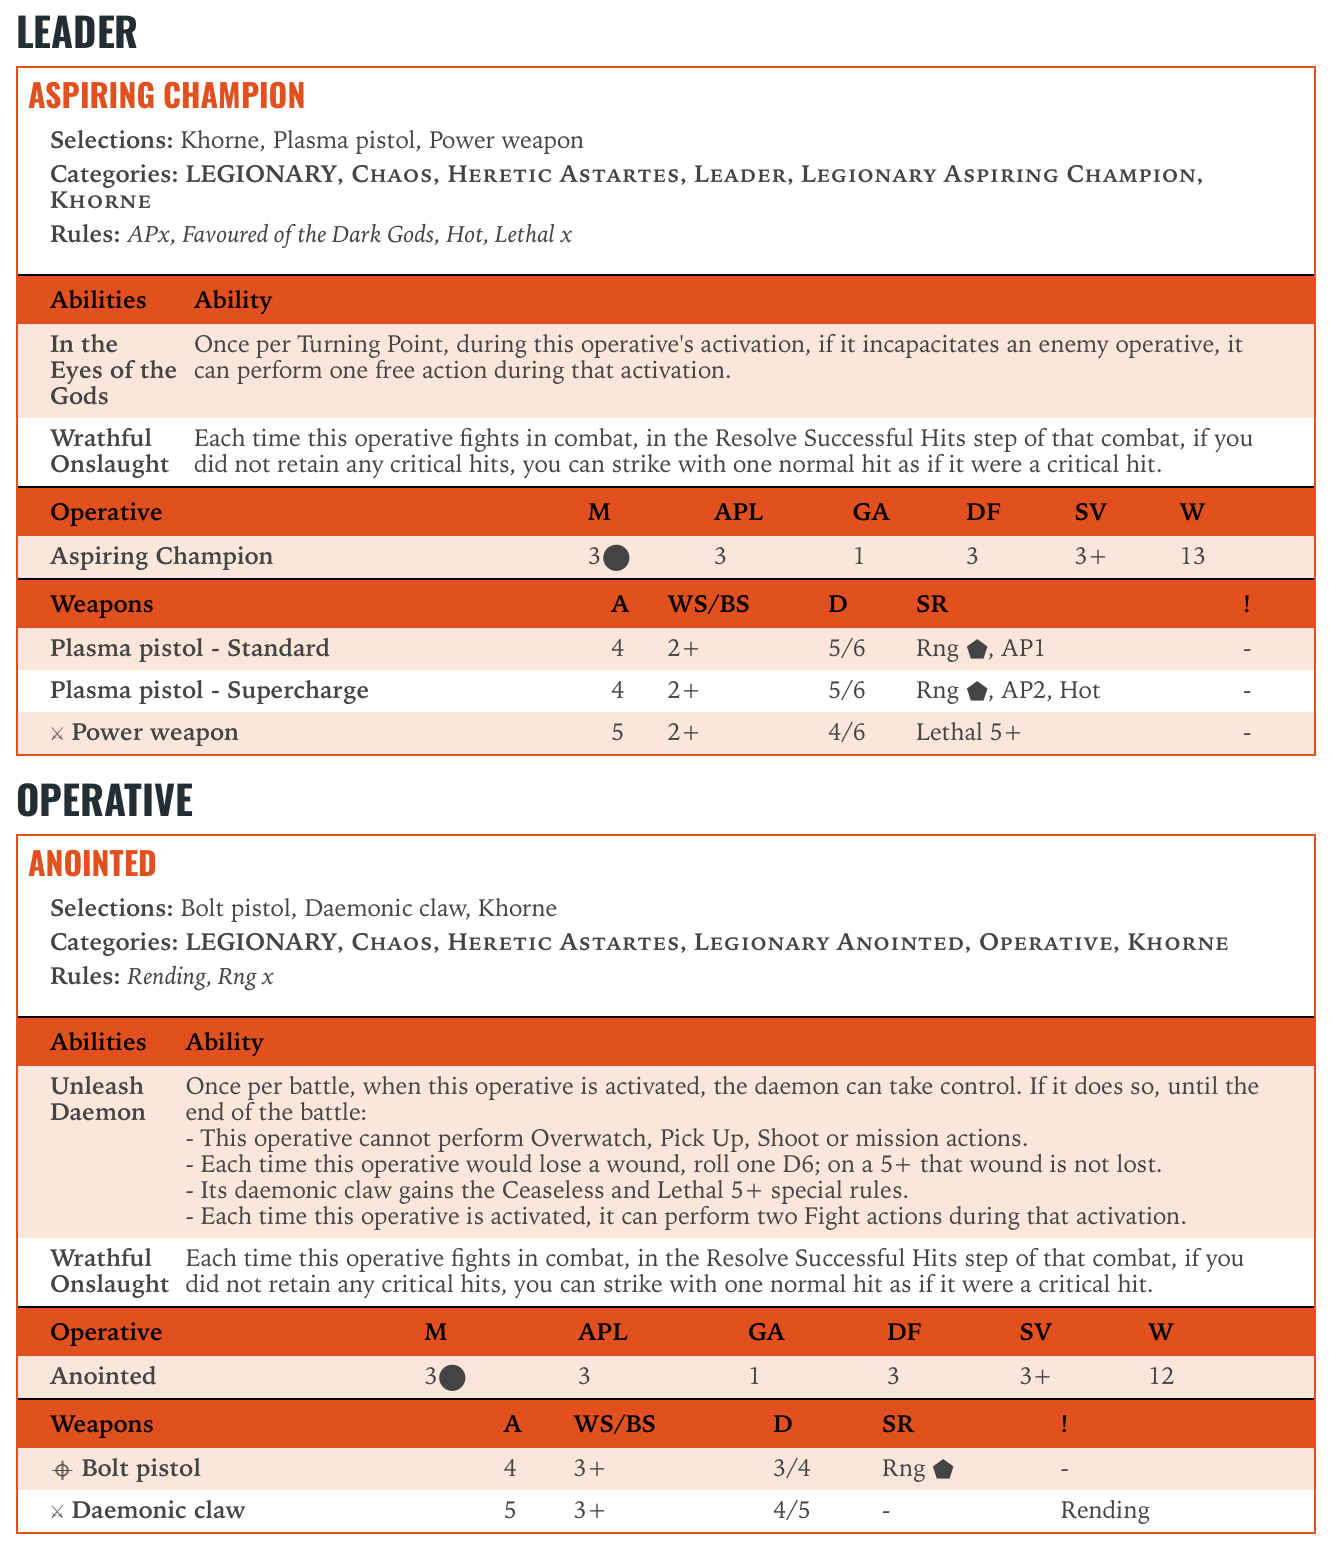
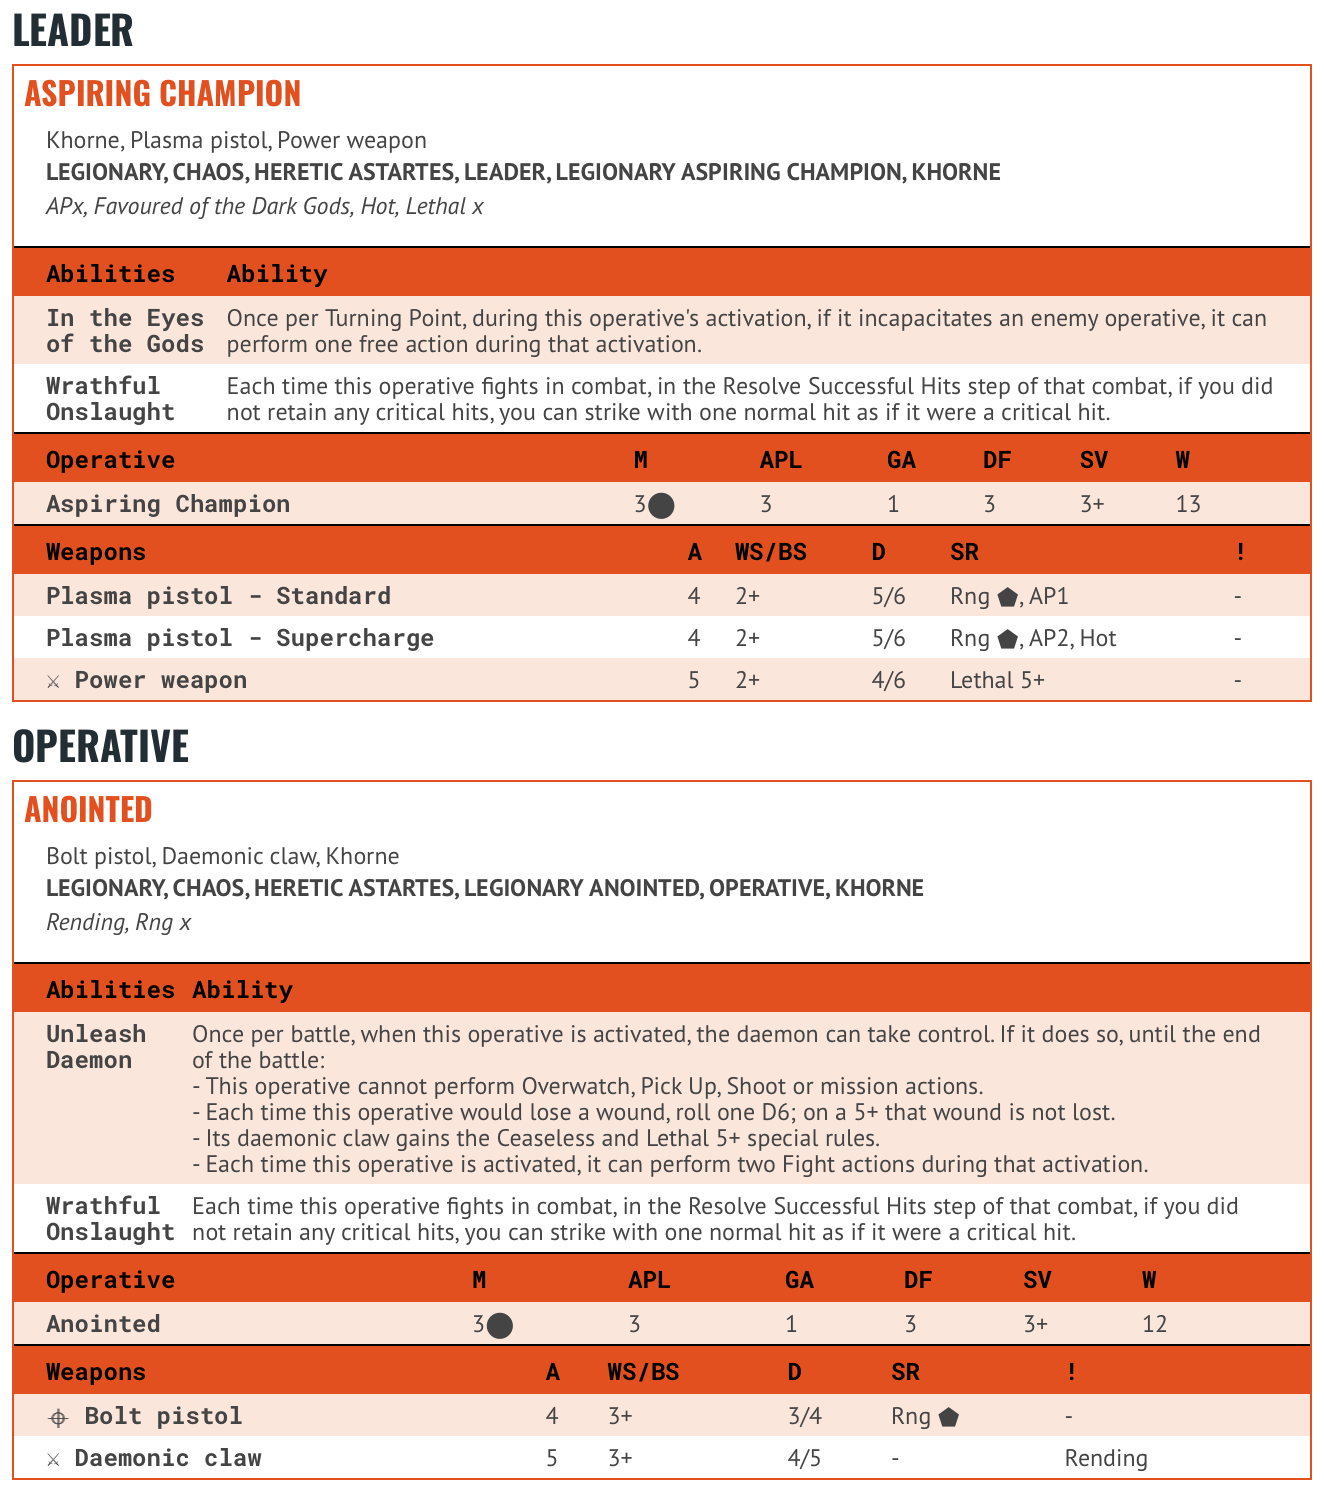
Update images with redesigned Kill Team sheets

diff --git a/readme.md b/readme.md
@@ -2,15 +2,17 @@
 
 This CSS adds Warhammer flavour to Battlescribe's HTML output for your Warhammer 40,000 and Kill Team rosters. It’s designed to be more practical for referencing during games and features a print-friendly mode.
 
-Kill Team sheets look like this:
+In a browser, Kill Team sheets look like this:
 
 ![](pics/kt_screen.png)
 
-40,000 sheets look like this:
+In a browser, 40,000 sheets look like this:
 
 ![](pics/40k_screen.png)
 
-When printed, sheets are set into two columns, which works well for most Kill Team rosters but not so well for 40K because units feature more information. Printed Kill Team sheets look like this:
+When printed, sheets are set into two columns, which works well for most Kill Team rosters but not so well for 40K because units feature more information. 
+
+Printed Kill Team sheets look like this:
 
 ![](pics/kt_print.jpg)
 
@@ -21,15 +23,15 @@ When printed, sheets are set into two columns, which works well for most Kill Te
     - [40,000](40k-battlescribe.css)
 2. Use Battlescribe to generate an HTML file and open in a text editor
 3. Copy the full text of the CSS
-4. Paste it into the HTML file, replacing everything between and *including* the `<style>` and `</style>` tags
+4. Paste it into the HTML file, replacing everything between and **including** the `<style>` and `</style>` tags
 5. Save the HTML and open it in a web browser
 6. To print, please use Chrome or Firefox (Safari won't print with the print viewm for some reason). Ensure that the Background Graphics option is checked in the print dialog
 
 ## Notes
 
-- I'm neither a designer nor a web developer, so I'm making no claims for my CSS skills. 
-- The 40K CSS is relatively untested, so I welcome feedback to improve it.
-- The Kill Team CSS was designed for the first edition. I've made a couple of adjustments for the current edition, but it's also relatively untested. 
+- I'm neither a designer nor a web developer, so I'm making no claims for my CSS skills.
+- **Kill Team CSS** is redesigned for the current 2021 edition, but it's relatively untested. I welcome feedback for fixes and improvements.
+- **40K CSS** was designed for 9th Edition. It's untested for 10th Edition.
 - The CSS displays your roster in two ways. On your screen it should appear as a single column and be fairly clear to reference on a tablet during a game. Print it out and it switches to a two-column view with smaller text.
 - There are page break rules to prevent entries from splitting over columns and pages. I optimised it for keeping units and operatives on single pages. The first page may be almost empty, and models with long lists of rules might break over pages and generally look terrible, but I've done what I can to make it practical.
 
